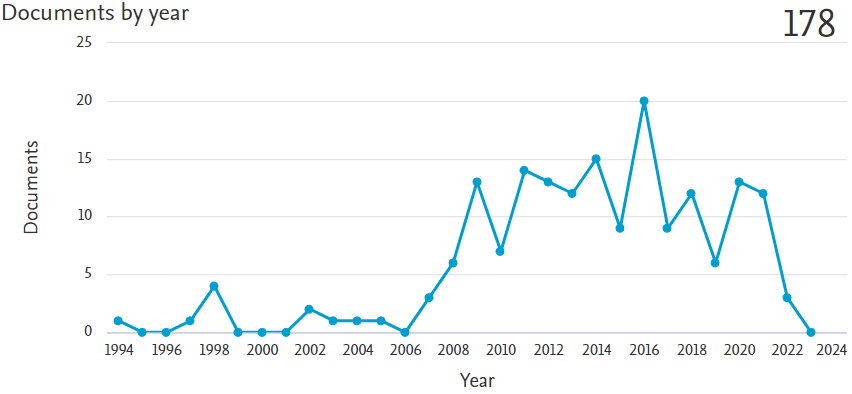
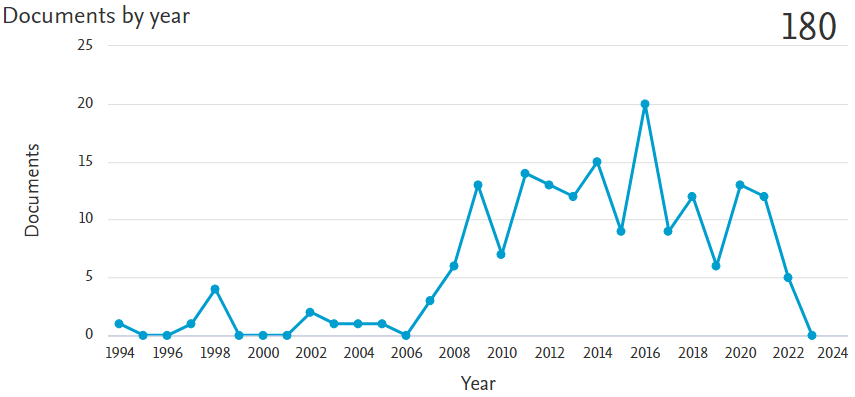
Updated Prof metrics

diff --git a/website/templates/website/people.html b/website/templates/website/people.html
@@ -10,7 +10,7 @@
   </h1>
 
 
-
+{% comment %}
 <!-- Highlighted - Professors - version 3, vertical -->
 {%  if professors %}
 <div class="row mt-4 mb-3">
@@ -69,56 +69,55 @@
   </div><!-- col-md-12 closing -->
 </div><!-- row closing -->
 {%  endif %}
+{% endcomment %}
 
 
 
-
-  <!-- Highlighted - Professors - version 2, horizontal -->
-  {%  if professors %}
-  <div class="row mt-4 mb-3">
-    <div class="col-md-12">
-      <div class="card-deck">
-        {%  for professor in professors  %}
-        <div class="card shadow-sm">
-          <img src="{% if professor.user.profile.photo.url %}{{ professor.user.profile.photo.url }}{% else %}{{ professor.photo.url }}{% endif %}" class="card-img-top d-md-none" alt="member photo">
-          <div class="card-body expandable-card">
-            <div class="truncate">
-              <img src="{% if professor.user.profile.photo.url %}{{ professor.user.profile.photo.url }}{% else %}{{ professor.photo.url }}{% endif %}" class="float-md-left mr-md-3 d-none d-md-block" style="max-height: 200px; max-width: 200px;" alt="">
-              <h3 class="card-title fw-bold mb-3"><a class="text-reset" href="{% url 'member_page' professor.slug %}">{{ professor.name }}</a></h3>
-              <div class="card-text">{{ professor.user.profile.bio|safe }}</div>
-            </div>
-            <p class="card-text read-more text-right mb-0" style="display: none;">
-              <a class="link small align-top" href="{% url 'member_page' professor.slug %}">Read more...</a>
-            </p>
-            <p class="card-text mb-1 mt-3">
-              <small>
-                {% if professor.user.profile.scopus_url %}
-                <a class="link" href="{{ professor.user.profile.scopus_url }}" target="_blank"><i class="fas fa-globe-europe"></i> Scopus</a> &nbsp;
-                {% endif %}
-                {% if professor.user.profile.scholar_url %}
-                <a class="link" href="{{ professor.user.profile.scholar_url }}" target="_blank"><i class="ai ai-google-scholar"></i> Scholar</a> &nbsp; 
-                {% endif %}
-                {% if professor.user.profile.linkedin_url %}
-                <a class="link" href="{{ professor.user.profile.linkedin_url }}" target="_blank"><i class="fab fa-linkedin-in"></i> LinkedIn</a> &nbsp; 
-                {% endif %}
-                {% if professor.user.profile.research_gate_url %}
-                <a class="link" href="{{ professor.user.profile.research_gate_url }}" target="_blank"><i class="ai ai-researchgate"></i> Research Gate</a> &nbsp; 
-                {% endif %}
-                {% if professor.user.profile.orcid_url %}
-                <a class="link" href="{{ professor.user.profile.orcid_url }}" target="_blank"><i class="ai ai-orcid"></i> ORCID</a> &nbsp; 
-                {% endif %}
-                {% if professor.user.profile.personal_url %}
-                <a class="link" href="{{ professor.user.profile.personal_url }}" target="_blank"><i class="fas fa-link"></i> Personal Page</a> &nbsp; 
-                {% endif %}
-              </small>
-            </p>
+<!-- Highlighted - Professors - version 2, horizontal -->
+{%  if professors %}
+<div class="row mt-4 mb-3">
+  <div class="col-md-12">
+    <div class="card-deck">
+      {%  for professor in professors  %}
+      <div class="card shadow-sm">
+        <img src="{% if professor.user.profile.photo.url %}{{ professor.user.profile.photo.url }}{% else %}{{ professor.photo.url }}{% endif %}" class="card-img-top d-md-none" alt="member photo">
+        <div class="card-body expandable-card">
+          <div class="truncate">
+            <img src="{% if professor.user.profile.photo.url %}{{ professor.user.profile.photo.url }}{% else %}{{ professor.photo.url }}{% endif %}" class="float-md-left mr-md-3 d-none d-md-block" style="max-height: 200px; max-width: 200px;" alt="">
+            <h3 class="card-title fw-bold mb-3"><a class="text-reset" href="{% url 'member_page' professor.slug %}">{{ professor.name }}</a></h3>
+            <div class="card-text">{{ professor.user.profile.bio|safe }}</div>
           </div>
+          <p class="card-text read-more text-right mb-0" style="display: none;">
+            <a class="link small align-top" href="{% url 'member_page' professor.slug %}">Read more...</a>
+          </p>
+            <ul class="list-inline mt-auto">
+              {% if professor.user.profile.scopus_url %}
+              <li class="list-inline-item"><a class="text-reset" href="{{ professor.user.profile.scopus_url }}" target="_blank"><i class="ai ai-scopus-square ai-2x"></i></a></li>
+              {% endif %}
+              {% if professor.user.profile.scholar_url %}
+              <li class="list-inline-item"><a class="text-reset" href="{{ professor.user.profile.scholar_url }}" target="_blank"><i class="ai ai-google-scholar-square ai-2x"></i></a></li>
+              {% endif %}
+              {% if professor.user.profile.linkedin_url %}
+              <li class="list-inline-item"><a class="text-reset" href="{{ professor.user.profile.linkedin_url }}" target="_blank"><i class="fab fa-linkedin fa-2x"></i></a></li>
+              {% endif %}
+              {% if professor.user.profile.research_gate_url %}
+              <li class="list-inline-item"><a class="text-reset" href="{{ professor.user.profile.research_gate_url }}" target="_blank"><i class="ai ai-researchgate-square ai-2x"></i></a></li>
+              {% endif %}
+              {% if professor.user.profile.orcid_url %}
+              <li class="list-inline-item"><a class="text-reset" href="{{ professor.user.profile.orcid_url }}" target="_blank"><i class="ai ai-orcid-square ai-2x"></i></a></li>
+              {% endif %}
+              {% if professor.user.profile.personal_url %}
+              <li class="list-inline-item"><a class="text-reset" href="{{ professor.user.profile.personal_url }}" target="_blank"><i class="fas fa-external-link-square-alt fa-2x"></i></a></li>
+              {% endif %}
+            </ul>
         </div>
-        {%  endfor %}
       </div>
-    </div><!-- col-md-12 closing -->
-  </div><!-- row closing -->
-  {%  endif %}
+      {%  endfor %}
+    </div>
+  </div><!-- col-md-12 closing -->
+</div><!-- row closing -->
+{%  endif %}
+
 
 
   <!-- Reserchers -->

diff --git a/website/templates/website/_includes/prof_metrics.html b/website/templates/website/_includes/prof_metrics.html
@@ -9,7 +9,7 @@
   <a href="https://www.scopus.com/authid/detail.uri?authorId=57195637544" target="_blank">
     <img src="{% static 'website/images/metrics/h-index-compressor.png' %}" class="figure-img img-fluid rounded" alt="h-index">
   </a>
-  <figcaption class="figure-caption text-right">Last updated: 31-5-2022</figcaption>
+  <figcaption class="figure-caption text-right">Last updated: 31-8-2022</figcaption>
 </figure>
 
 <h5 class="text-center">Publications</h5>
@@ -17,7 +17,7 @@
   <a href="https://www.scopus.com/authid/detail.uri?authorId=57195637544" target="_blank">
     <img src="{% static 'website/images/metrics/publications-compressor.png' %}" class="figure-img img-fluid rounded" alt="Publications">
   </a>
-  <figcaption class="figure-caption text-right">Last updated: 31-5-2022</figcaption>
+  <figcaption class="figure-caption text-right">Last updated: 31-8-2022</figcaption>
 </figure>
 
 <h5 class="text-center">Citations</h5>
@@ -25,7 +25,7 @@
   <a href="https://www.scopus.com/authid/detail.uri?authorId=57195637544" target="_blank">
     <img src="{% static 'website/images/metrics/citations-compressor.png' %}" class="figure-img img-fluid rounded" alt="Citations">
   </a>
-  <figcaption class="figure-caption text-right">Last updated: 31-5-2022</figcaption>
+  <figcaption class="figure-caption text-right">Last updated: 31-8-2022</figcaption>
 </figure>
 
 <h5 class="text-center">Sources</h5>
@@ -33,7 +33,5 @@
   <a href="https://www.scopus.com/authid/detail.uri?authorId=57195637544" target="_blank">
     <img src="{% static 'website/images/metrics/sources-compressor.png' %}" class="figure-img img-fluid rounded" alt="Sources">
   </a>
-  <figcaption class="figure-caption text-right">Last updated: 31-5-2022</figcaption>
+  <figcaption class="figure-caption text-right">Last updated: 31-8-2022</figcaption>
 </figure>
-
-
